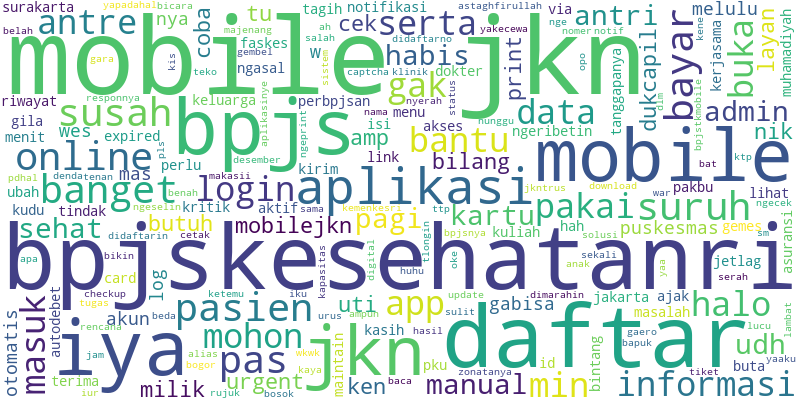
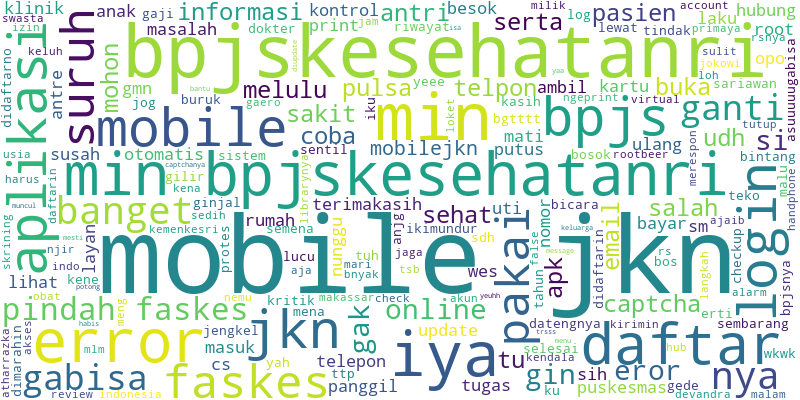
menambahkan @login_required

diff --git a/sentiment_analysis_nb_svm/preprocessing/views.py b/sentiment_analysis_nb_svm/preprocessing/views.py
@@ -1,5 +1,5 @@
 import time
-
+from django.contrib.auth.decorators import login_required
 from django.shortcuts import render, redirect
 from django.contrib import messages
 from dataset.models import Dataset
@@ -21,7 +21,7 @@ from .utils import (
 
 # Create your views here.
 
-
+@login_required
 def process_cleaning(request):
     # Fetch all datasets
     datasets = Dataset.objects.all()
@@ -34,7 +34,7 @@ def process_cleaning(request):
         preprocessing.save()
     return redirect("preprocessing:cleansing_view")
 
-
+@login_required
 def cleansingView(request):
     datasets = Dataset.objects.all()
     preprocessings = Preprocessing.objects.all()
@@ -45,7 +45,7 @@ def cleansingView(request):
     }
     return render(request, "preprocessing/cleansing.html", context)
 
-
+@login_required
 def process_casefolding(request):
     preprocessings = Preprocessing.objects.all()
     for preprocessing in preprocessings:
@@ -54,7 +54,7 @@ def process_casefolding(request):
             preprocessing.save()
     return redirect("preprocessing:casefolding_view")
 
-
+@login_required
 def casefoldingView(request):
     preprocessings = Preprocessing.objects.all()
     countBefore = preprocessings.filter(cleaned_text__isnull=True).count()
@@ -67,7 +67,7 @@ def casefoldingView(request):
     }
     return render(request, "preprocessing/case-folding.html", context)
 
-
+@login_required
 def process_tokenization(request):
     preprocessings = Preprocessing.objects.all()
     for preprocessing in preprocessings:
@@ -76,7 +76,7 @@ def process_tokenization(request):
             preprocessing.save()
     return redirect("preprocessing:tokenization_view")
 
-
+@login_required
 def tokenizationView(request):
     preprocessings = Preprocessing.objects.all()
     countBefore = preprocessings.filter(case_folded_text__isnull=True).count()
@@ -89,6 +89,7 @@ def tokenizationView(request):
     }
     return render(request, "preprocessing/tokenizing.html", context)
 
+@login_required
 def process_normalization(request):
     preprocessings = Preprocessing.objects.all()
     slang_words = read_slang_words("file/normalization/slang_word_normalization.txt")
@@ -110,7 +111,7 @@ def process_normalization(request):
         preprocessing.save()
     return redirect("preprocessing:normalization_view")
 
-
+@login_required
 def normalizationView(request):
     preprocessings = Preprocessing.objects.all()
     countBefore = preprocessings.filter(tokenized_text__isnull=True).count()
@@ -123,7 +124,7 @@ def normalizationView(request):
     }
     return render(request, "preprocessing/normalization.html", context)
 
-
+@login_required
 def process_stopword(request):
     preprocessings = Preprocessing.objects.all()
     stopwords = read_stopwords("file/stopword/combined_stopwords.txt")
@@ -143,7 +144,7 @@ def process_stopword(request):
             preprocessing.save()
     return redirect("preprocessing:stopword_view")
 
-
+@login_required
 def stopwordView(request):
     preprocessings = Preprocessing.objects.all()
     countBefore = preprocessings.filter(normalized_text__isnull=True).count()
@@ -156,7 +157,7 @@ def stopwordView(request):
     }
     return render(request, "preprocessing/stopword.html", context)
 
-
+@login_required
 def process_stemming(request):
     preprocessings = Preprocessing.objects.all()
     stemming_words = read_stemming_words("file/stemming/words_stemming.txt")
@@ -182,6 +183,7 @@ def process_stemming(request):
     print(f"Time taken for custom stemming: {elapsed_time} seconds")
     return redirect("preprocessing:stemming_view")
 
+@login_required
 def stemmingView(request):
     preprocessings = Preprocessing.objects.all()
     countBefore = preprocessings.filter(stopwords_removed_text__isnull=True).count()
@@ -194,6 +196,7 @@ def stemmingView(request):
     }
     return render(request, "preprocessing/stemming.html", context)
 
+@login_required
 def process_stemming2(request):
     preprocessings = Preprocessing.objects.all()
     

diff --git a/sentiment_analysis_nb_svm/sentiment_analysis_nb_svm/views.py b/sentiment_analysis_nb_svm/sentiment_analysis_nb_svm/views.py
@@ -19,6 +19,7 @@ def generate_word_cloud(text, output_path):
     wordcloud = WordCloud(width=800, height=400, background_color='white').generate(text)
     wordcloud.to_file(output_path)
 
+@login_required
 def generate_wordcloud(request):
     if request.user.is_authenticated:
         # Get texts for word cloud
@@ -28,9 +29,9 @@ def generate_wordcloud(request):
         negative_texts = ' '.join(
             Preprocessing.objects.filter(dataset__label="negatif").values_list('stemmed_text', flat=True)
         )
-        neutral_texts = ' '.join(
-            Preprocessing.objects.filter(dataset__label="netral").values_list('stemmed_text', flat=True)
-        )
+        # neutral_texts = ' '.join(
+        #     Preprocessing.objects.filter(dataset__label="netral").values_list('stemmed_text', flat=True)
+        # )
 
         # Check and generate word cloud paths
         wordcloud_dir = os.path.join(settings.STATICFILES_DIRS[0], 'img', 'wordclouds')
@@ -48,12 +49,13 @@ def generate_wordcloud(request):
 
         create_wordcloud('positif', positive_texts)
         create_wordcloud('negatif', negative_texts)
-        create_wordcloud('netral', neutral_texts)
+        # create_wordcloud('netral', neutral_texts)
 
         return redirect('index')
     else:
         return redirect("login")
 
+@login_required
 def index(request):
     if request.user.is_authenticated:
         # Count every label
@@ -73,7 +75,7 @@ def index(request):
         # Check if word cloud paths exist
         positive_wc_obj = WordCloudPath.objects.filter(sentiment='positif').first()
         negative_wc_obj = WordCloudPath.objects.filter(sentiment='negatif').first()
-        neutral_wc_obj = WordCloudPath.objects.filter(sentiment='netral').first()
+        # neutral_wc_obj = WordCloudPath.objects.filter(sentiment='netral').first()
 
         if positive_wc_obj:
             positive_wordcloud_url = positive_wc_obj.path
@@ -85,13 +87,13 @@ def index(request):
         else:
             negative_wordcloud_url = 'img/default_wordcloud.png'
 
-        if neutral_wc_obj:
-            neutral_wordcloud_url = neutral_wc_obj.path
-        else:
-            neutral_wordcloud_url = 'img/default_wordcloud.png'
+        # if neutral_wc_obj:
+        #     neutral_wordcloud_url = neutral_wc_obj.path
+        # else:
+        #     neutral_wordcloud_url = 'img/default_wordcloud.png'
         
         check_wordcloud = None
-        if positive_wordcloud_url == 'img/default_wordcloud.png' or negative_wordcloud_url == 'img/default_wordcloud.png' or neutral_wordcloud_url == 'img/default_wordcloud.png':
+        if positive_wordcloud_url == 'img/default_wordcloud.png' or negative_wordcloud_url == 'img/default_wordcloud.png':
             check_wordcloud = True
         context = {
             "title": "Dashboard",
@@ -106,7 +108,6 @@ def index(request):
             "check_wordcloud": check_wordcloud,
             "positive_wordcloud_url": os.path.join('static', positive_wordcloud_url),
             "negative_wordcloud_url": os.path.join('static', negative_wordcloud_url),
-            "neutral_wordcloud_url": os.path.join('static', neutral_wordcloud_url),
         }
 
         return render(request, "index.html", context)

diff --git a/sentiment_analysis_nb_svm/dataset/views.py b/sentiment_analysis_nb_svm/dataset/views.py
@@ -3,7 +3,9 @@ from django.contrib import messages
 import pandas as pd
 from .models import Dataset
 from .forms import UploadFileForm
+from django.contrib.auth.decorators import login_required
 
+@login_required
 # Create your views here.
 def index(request):
     context = {}
@@ -15,6 +17,7 @@ def index(request):
         context['datasets'] = datasets
     return render(request, 'dataset/index.html', context)
 
+@login_required
 def upload_file(request):
     if request.method == 'POST':
         form = UploadFileForm(request.POST, request.FILES)

diff --git a/sentiment_analysis_nb_svm/preprocessing/admin.py b/sentiment_analysis_nb_svm/preprocessing/admin.py
@@ -3,4 +3,5 @@ from .models import Preprocessing
 from .models import WordCloud
 # Register models preprocessing and wordcloud
 admin.site.register(Preprocessing)
+admin.site.register(WordCloud)
 
